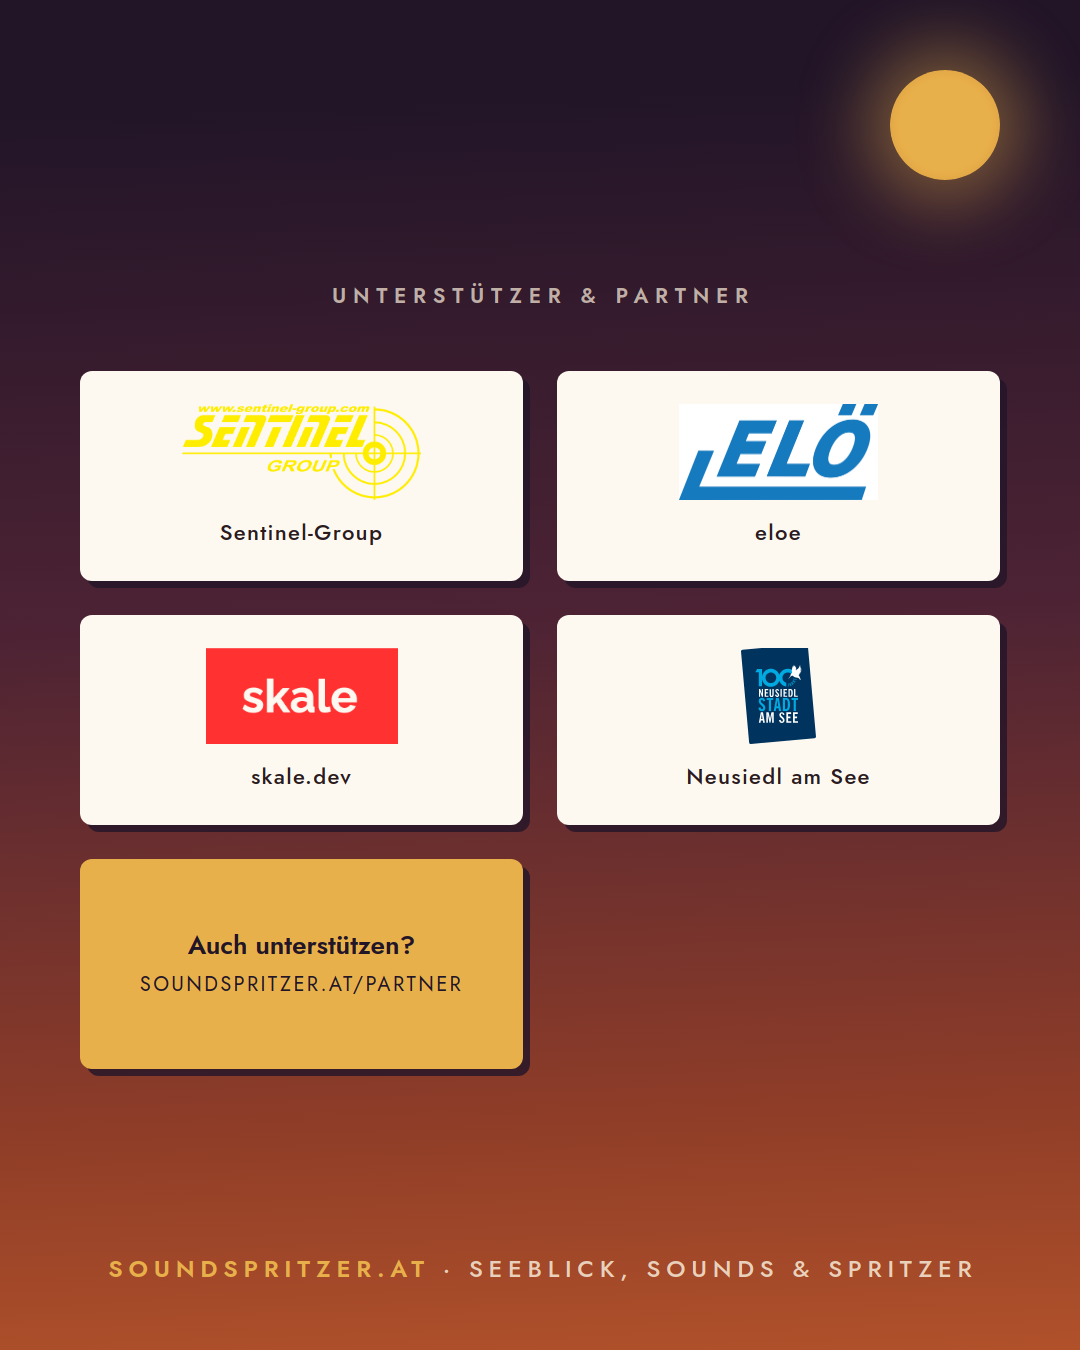
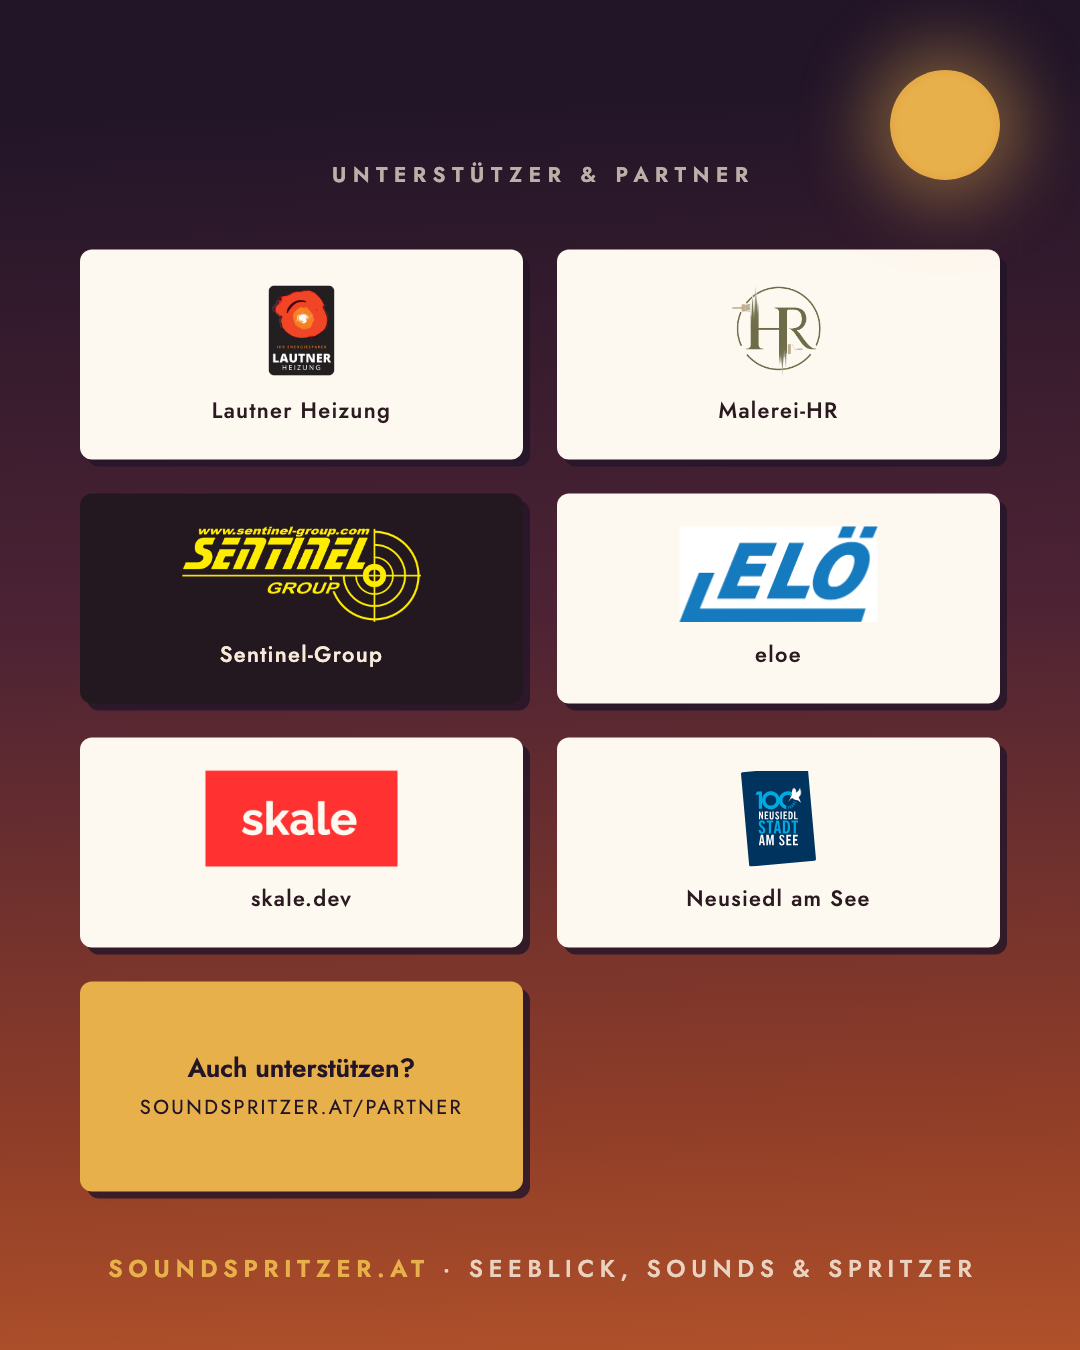
Sponsoren: werk & jumpworld geteilt (je 150 €, medium) — Carousel neu gebaut
- Sheet-Änderung: aus „werk und jumpworld" (large, 300 €) wurden zwei Medium-Sponsoren (werk, werkbowling.at · jumpworld); Large-Tier jetzt 7
- gen-carousel.mjs: Dark-Tile-Spezifitäts-Fix — .tile bg überschrieb tile--dark (weiße Logo-Teile von jumpworld/ELRA waren auf heller Kachel unsichtbar)
- Alle 5 Slides neu fotografiert + VLM-geprüft (Slide 2: 7 Large, Slide 3/4: getrennte Karten, dunkle Kacheln lesbar)
- Website-Wand zieht sponsors.json automatisch; alt: werk-und-jumpworld.svg bleibt als Fallback liegen

diff --git a/assets/carousel/slide-03.html b/assets/carousel/slide-03.html
@@ -46,9 +46,12 @@
   .card img { max-width: 100%; height: 170px; width: auto; object-fit: contain; }
   .card .name { color: #2b1a20; font-weight: 600; font-size: 26px; letter-spacing: .08em; text-transform: uppercase; }
   .card .role { color: #8f3d28; font-size: 20px; letter-spacing: .14em; text-transform: uppercase; }
-  /* Dunkle Logos (Sheet-Spalte „Hintergrund“ = black/dunkel) brauchen dunkle Karten */
-  .card--dark, .tile--dark { background: #241820; }
-  .card--dark .name, .tile--dark .name { color: #f7ead8; }
+  /* Dunkle Logos (Sheet-Spalte „Hintergrund“ = black/dunkel) brauchen dunkle Karten.
+     Doppelt-Klasse = Spezifität gegen .card/.tile, die später im Stylesheet
+     ihr helles background setzen (Bug 17.09.: jumpworld/ELRA weiße Logo-Teile
+     auf heller Kachel unsichtbar). */
+  .card--dark, .tile--dark, .card.card--dark, .tile.tile--dark { background: #241820; }
+  .card--dark .name, .tile--dark .name, .tile.tile--dark .name { color: #f7ead8; }
   .card--dark .role { color: #e8b04b; }
   /* Viele Gold-Sponsoren (>3): 3er-Grid statt Reihe — nichts wird abgeschnitten */
   .cards--many { display: grid; grid-template-columns: repeat(3, 1fr); gap: 34px; }
@@ -77,6 +80,14 @@
 <body><span class="sun" aria-hidden="true"></span>
   <p class="label">Unterstützer &amp; Partner</p>
   <div class="grid">
+    <div class="tile">
+      <img src="../sponsor-logos/werk.jpg" alt="werk">
+      <div class="name">werk</div>
+    </div>
+    <div class="tile tile--dark">
+      <img src="../sponsor-logos/jumpworld.svg" alt="jumpworld">
+      <div class="name">jumpworld</div>
+    </div>
     <div class="tile tile--dark">
       <img src="../sponsor-logos/elra.svg" alt="ELRA">
       <div class="name">ELRA</div>
@@ -96,14 +107,6 @@
     <div class="tile tile--dark">
       <img src="../sponsor-logos/roland-hamm.jpg" alt="Roland Hamm">
       <div class="name">Roland Hamm</div>
-    </div>
-    <div class="tile">
-      <img src="../sponsor-logos/lautner-heizung.png" alt="Lautner Heizung">
-      <div class="name">Lautner Heizung</div>
-    </div>
-    <div class="tile">
-      <img src="../sponsor-logos/malerei-hr.png" alt="Malerei-HR">
-      <div class="name">Malerei-HR</div>
     </div></div>
   <p class="foot"><b>soundspritzer.at</b> · Seeblick, Sounds &amp; Spritzer</p>
 </body></html>

diff --git a/assets/carousel/slide-04.html b/assets/carousel/slide-04.html
@@ -46,9 +46,12 @@
   .card img { max-width: 100%; height: 170px; width: auto; object-fit: contain; }
   .card .name { color: #2b1a20; font-weight: 600; font-size: 26px; letter-spacing: .08em; text-transform: uppercase; }
   .card .role { color: #8f3d28; font-size: 20px; letter-spacing: .14em; text-transform: uppercase; }
-  /* Dunkle Logos (Sheet-Spalte „Hintergrund“ = black/dunkel) brauchen dunkle Karten */
-  .card--dark, .tile--dark { background: #241820; }
-  .card--dark .name, .tile--dark .name { color: #f7ead8; }
+  /* Dunkle Logos (Sheet-Spalte „Hintergrund“ = black/dunkel) brauchen dunkle Karten.
+     Doppelt-Klasse = Spezifität gegen .card/.tile, die später im Stylesheet
+     ihr helles background setzen (Bug 17.09.: jumpworld/ELRA weiße Logo-Teile
+     auf heller Kachel unsichtbar). */
+  .card--dark, .tile--dark, .card.card--dark, .tile.tile--dark { background: #241820; }
+  .card--dark .name, .tile--dark .name, .tile.tile--dark .name { color: #f7ead8; }
   .card--dark .role { color: #e8b04b; }
   /* Viele Gold-Sponsoren (>3): 3er-Grid statt Reihe — nichts wird abgeschnitten */
   .cards--many { display: grid; grid-template-columns: repeat(3, 1fr); gap: 34px; }
@@ -77,6 +80,14 @@
 <body><span class="sun" aria-hidden="true"></span>
   <p class="label">Unterstützer &amp; Partner</p>
   <div class="grid">
+    <div class="tile">
+      <img src="../sponsor-logos/lautner-heizung.png" alt="Lautner Heizung">
+      <div class="name">Lautner Heizung</div>
+    </div>
+    <div class="tile">
+      <img src="../sponsor-logos/malerei-hr.png" alt="Malerei-HR">
+      <div class="name">Malerei-HR</div>
+    </div>
     <div class="tile tile--dark">
       <img src="../sponsor-logos/sentinel-group.png" alt="Sentinel-Group">
       <div class="name">Sentinel-Group</div>

diff --git a/assets/carousel/slide-02.html b/assets/carousel/slide-02.html
@@ -46,9 +46,12 @@
   .card img { max-width: 100%; height: 170px; width: auto; object-fit: contain; }
   .card .name { color: #2b1a20; font-weight: 600; font-size: 26px; letter-spacing: .08em; text-transform: uppercase; }
   .card .role { color: #8f3d28; font-size: 20px; letter-spacing: .14em; text-transform: uppercase; }
-  /* Dunkle Logos (Sheet-Spalte „Hintergrund“ = black/dunkel) brauchen dunkle Karten */
-  .card--dark, .tile--dark { background: #241820; }
-  .card--dark .name, .tile--dark .name { color: #f7ead8; }
+  /* Dunkle Logos (Sheet-Spalte „Hintergrund“ = black/dunkel) brauchen dunkle Karten.
+     Doppelt-Klasse = Spezifität gegen .card/.tile, die später im Stylesheet
+     ihr helles background setzen (Bug 17.09.: jumpworld/ELRA weiße Logo-Teile
+     auf heller Kachel unsichtbar). */
+  .card--dark, .tile--dark, .card.card--dark, .tile.tile--dark { background: #241820; }
+  .card--dark .name, .tile--dark .name, .tile.tile--dark .name { color: #f7ead8; }
   .card--dark .role { color: #e8b04b; }
   /* Viele Gold-Sponsoren (>3): 3er-Grid statt Reihe — nichts wird abgeschnitten */
   .cards--many { display: grid; grid-template-columns: repeat(3, 1fr); gap: 34px; }
@@ -80,10 +83,6 @@
     <div class="card">
       <img src="../sponsor-logos/reisinger-energietechnik.png" alt="Reisinger Energietechnik">
       <div><div class="name">Reisinger Energietechnik</div><div class="role">Unterstützer</div></div>
-    </div>
-    <div class="card card--dark">
-      <img src="../sponsor-logos/werk-und-jumpworld.svg" alt="werk und jumpworld">
-      <div><div class="name">werk und jumpworld</div><div class="role">Unterstützer</div></div>
     </div>
     <div class="card">
       <img src="../sponsor-logos/sharp.png" alt="sharp">

diff --git a/assets/carousel/slide-01.html b/assets/carousel/slide-01.html
@@ -46,9 +46,12 @@
   .card img { max-width: 100%; height: 170px; width: auto; object-fit: contain; }
   .card .name { color: #2b1a20; font-weight: 600; font-size: 26px; letter-spacing: .08em; text-transform: uppercase; }
   .card .role { color: #8f3d28; font-size: 20px; letter-spacing: .14em; text-transform: uppercase; }
-  /* Dunkle Logos (Sheet-Spalte „Hintergrund“ = black/dunkel) brauchen dunkle Karten */
-  .card--dark, .tile--dark { background: #241820; }
-  .card--dark .name, .tile--dark .name { color: #f7ead8; }
+  /* Dunkle Logos (Sheet-Spalte „Hintergrund“ = black/dunkel) brauchen dunkle Karten.
+     Doppelt-Klasse = Spezifität gegen .card/.tile, die später im Stylesheet
+     ihr helles background setzen (Bug 17.09.: jumpworld/ELRA weiße Logo-Teile
+     auf heller Kachel unsichtbar). */
+  .card--dark, .tile--dark, .card.card--dark, .tile.tile--dark { background: #241820; }
+  .card--dark .name, .tile--dark .name, .tile.tile--dark .name { color: #f7ead8; }
   .card--dark .role { color: #e8b04b; }
   /* Viele Gold-Sponsoren (>3): 3er-Grid statt Reihe — nichts wird abgeschnitten */
   .cards--many { display: grid; grid-template-columns: repeat(3, 1fr); gap: 34px; }

diff --git a/assets/carousel/slide-05.html b/assets/carousel/slide-05.html
@@ -46,9 +46,12 @@
   .card img { max-width: 100%; height: 170px; width: auto; object-fit: contain; }
   .card .name { color: #2b1a20; font-weight: 600; font-size: 26px; letter-spacing: .08em; text-transform: uppercase; }
   .card .role { color: #8f3d28; font-size: 20px; letter-spacing: .14em; text-transform: uppercase; }
-  /* Dunkle Logos (Sheet-Spalte „Hintergrund“ = black/dunkel) brauchen dunkle Karten */
-  .card--dark, .tile--dark { background: #241820; }
-  .card--dark .name, .tile--dark .name { color: #f7ead8; }
+  /* Dunkle Logos (Sheet-Spalte „Hintergrund“ = black/dunkel) brauchen dunkle Karten.
+     Doppelt-Klasse = Spezifität gegen .card/.tile, die später im Stylesheet
+     ihr helles background setzen (Bug 17.09.: jumpworld/ELRA weiße Logo-Teile
+     auf heller Kachel unsichtbar). */
+  .card--dark, .tile--dark, .card.card--dark, .tile.tile--dark { background: #241820; }
+  .card--dark .name, .tile--dark .name, .tile.tile--dark .name { color: #f7ead8; }
   .card--dark .role { color: #e8b04b; }
   /* Viele Gold-Sponsoren (>3): 3er-Grid statt Reihe — nichts wird abgeschnitten */
   .cards--many { display: grid; grid-template-columns: repeat(3, 1fr); gap: 34px; }
